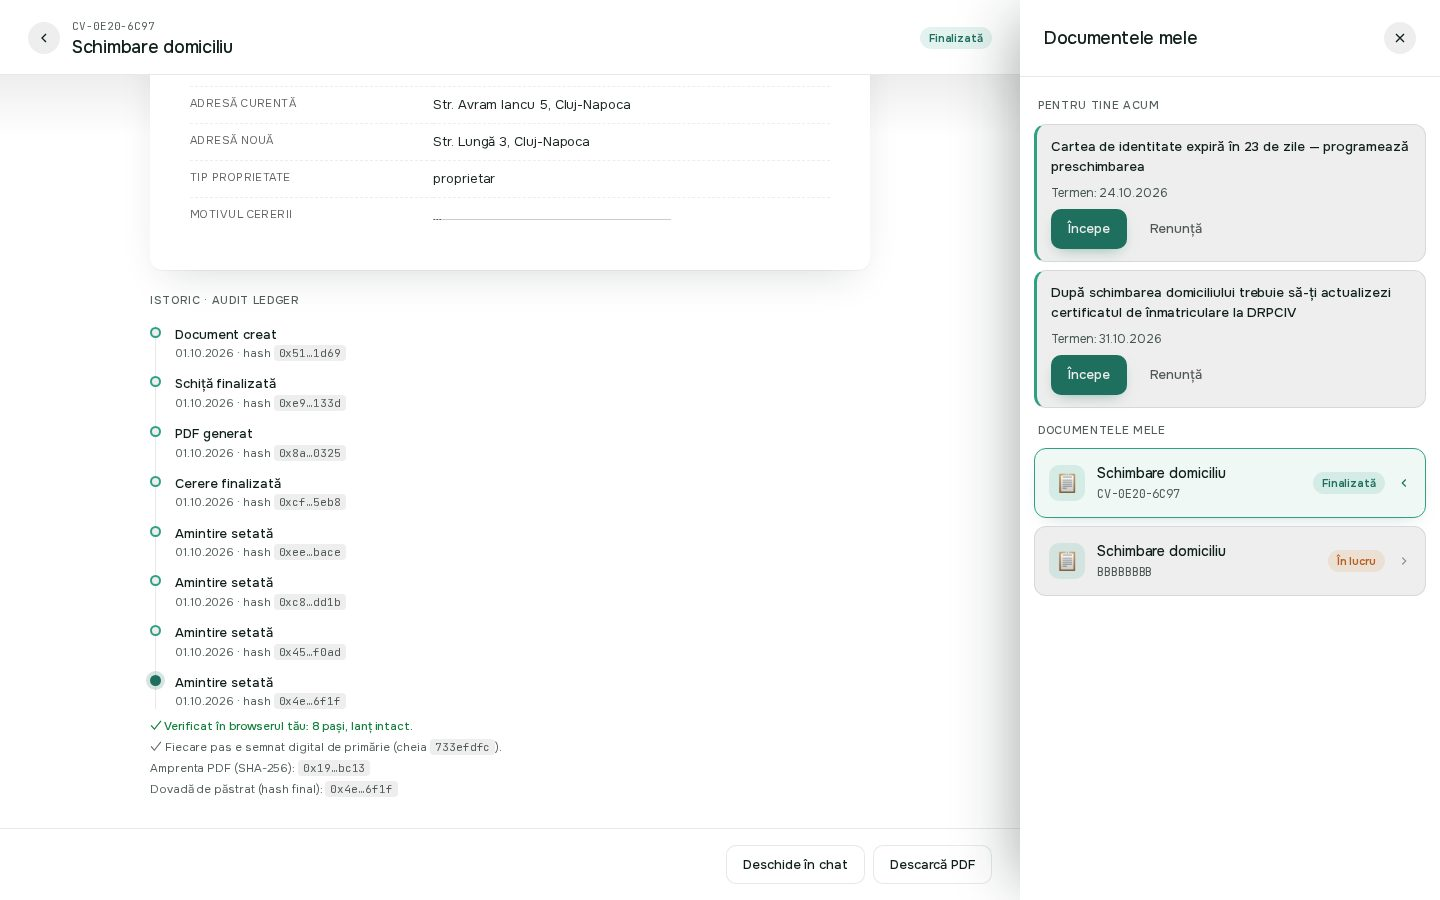
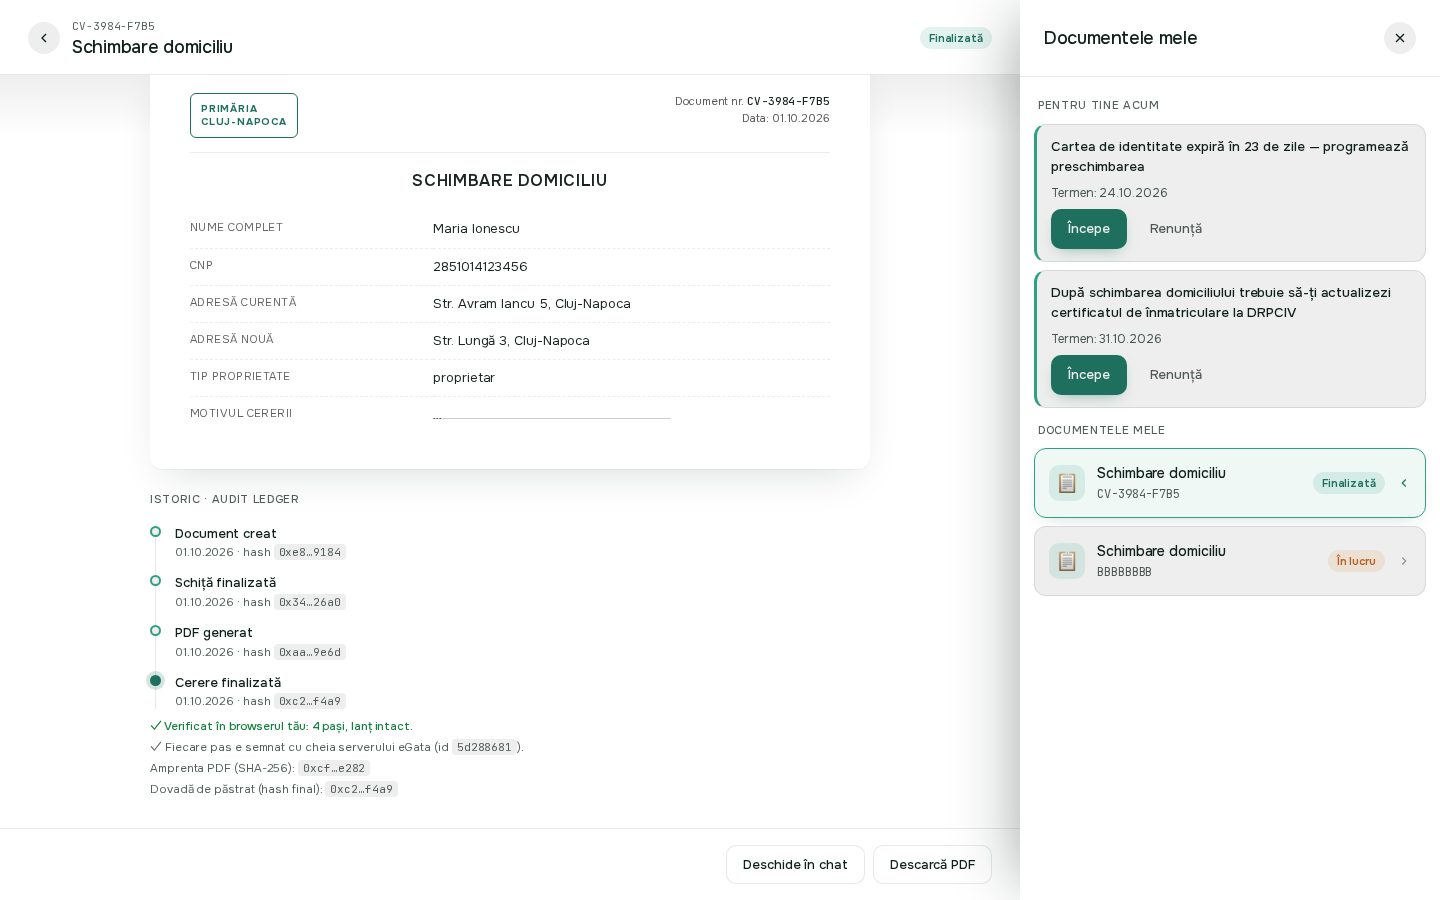
fix(frontend): the ledger is signed by this eGata server, not the primărie
The documents drawer said "Fiecare pas e semnat digital de primărie".
The key is the server's own LEDGER_SIGNING_KEY; no primărie signs
anything here. It now reads "Fiecare pas e semnat cu cheia serverului
eGata (id …)". The detail panel's "Verificat ✓ ROeID" claimed an identity
check that the demo's persona login does not do; it now reads
"Autentificare: ROeID (demo)".

LedgerStatus is exported for a test that pins the wording (no "primări").
README screenshot 5 and the last GIF frame are regenerated from the e2e
flow run (frames 1-4 unchanged).

diff --git a/frontend/components/chat/DocumentsDrawer.tsx b/frontend/components/chat/DocumentsDrawer.tsx
@@ -452,13 +452,10 @@ function DocDetail({
             </div>
           </div>
           <div>
-            <div className="dm-label">Verificat</div>
-            <div className="dm-value">
-              <span className="check" aria-hidden="true">
-                ✓
-              </span>
-              ROeID
-            </div>
+            {/* The persona login stands in for ROeID; nothing verified an
+                identity, so the label says how the citizen signed in. */}
+            <div className="dm-label">Autentificare</div>
+            <div className="dm-value">ROeID (demo)</div>
           </div>
         </div>
 
@@ -532,7 +529,7 @@ function DocDetail({
 
 /** What the citizen can trust about this document's history: the browser's
  * own re-derivation of the chain first, the server's flag only as a fallback. */
-function LedgerStatus({
+export function LedgerStatus({
   check,
   serverVerified,
 }: {
@@ -548,7 +545,9 @@ function LedgerStatus({
         </div>
         {check.signatures.status === "valid" ? (
           <div title={check.signatures.keyIds.join(", ")}>
-            ✓ Fiecare pas e semnat digital de primărie (cheia{" "}
+            {/* The key is this eGata server's (LEDGER_SIGNING_KEY), not the
+                primărie's: no institution signs anything here. */}
+            ✓ Fiecare pas e semnat cu cheia serverului eGata (id{" "}
             <code>{check.signatures.keyIds.map((k) => k.slice(-8)).join(", ")}</code>).
           </div>
         ) : check.signatures.status === "partial" ? (

diff --git a/frontend/components/chat/__tests__/LedgerStatus.test.tsx b/frontend/components/chat/__tests__/LedgerStatus.test.tsx
@@ -1,0 +1,26 @@
+import { describe, expect, it } from "vitest";
+import { render } from "@testing-library/react";
+import { LedgerStatus } from "../DocumentsDrawer";
+
+describe("LedgerStatus", () => {
+  it("names the eGata server's key as the signer, not the primărie", () => {
+    const { container } = render(
+      <LedgerStatus
+        check={{
+          status: "verified",
+          rows: 4,
+          head: "0x" + "ab".repeat(32),
+          pdfSha256: "0x" + "cd".repeat(32),
+          signatures: { status: "valid", keyIds: ["ed25519:5f8eb5c430bd215b"] },
+        }}
+        serverVerified={true}
+      />,
+    );
+    const text = container.textContent ?? "";
+    expect(text).toContain("Verificat în browserul tău: 4 pași, lanț intact.");
+    expect(text).toContain("semnat cu cheia serverului eGata");
+    expect(text).toContain("30bd215b");
+    // The key is this server's (LEDGER_SIGNING_KEY); no institution signs anything.
+    expect(text).not.toMatch(/primări/i);
+  });
+});
